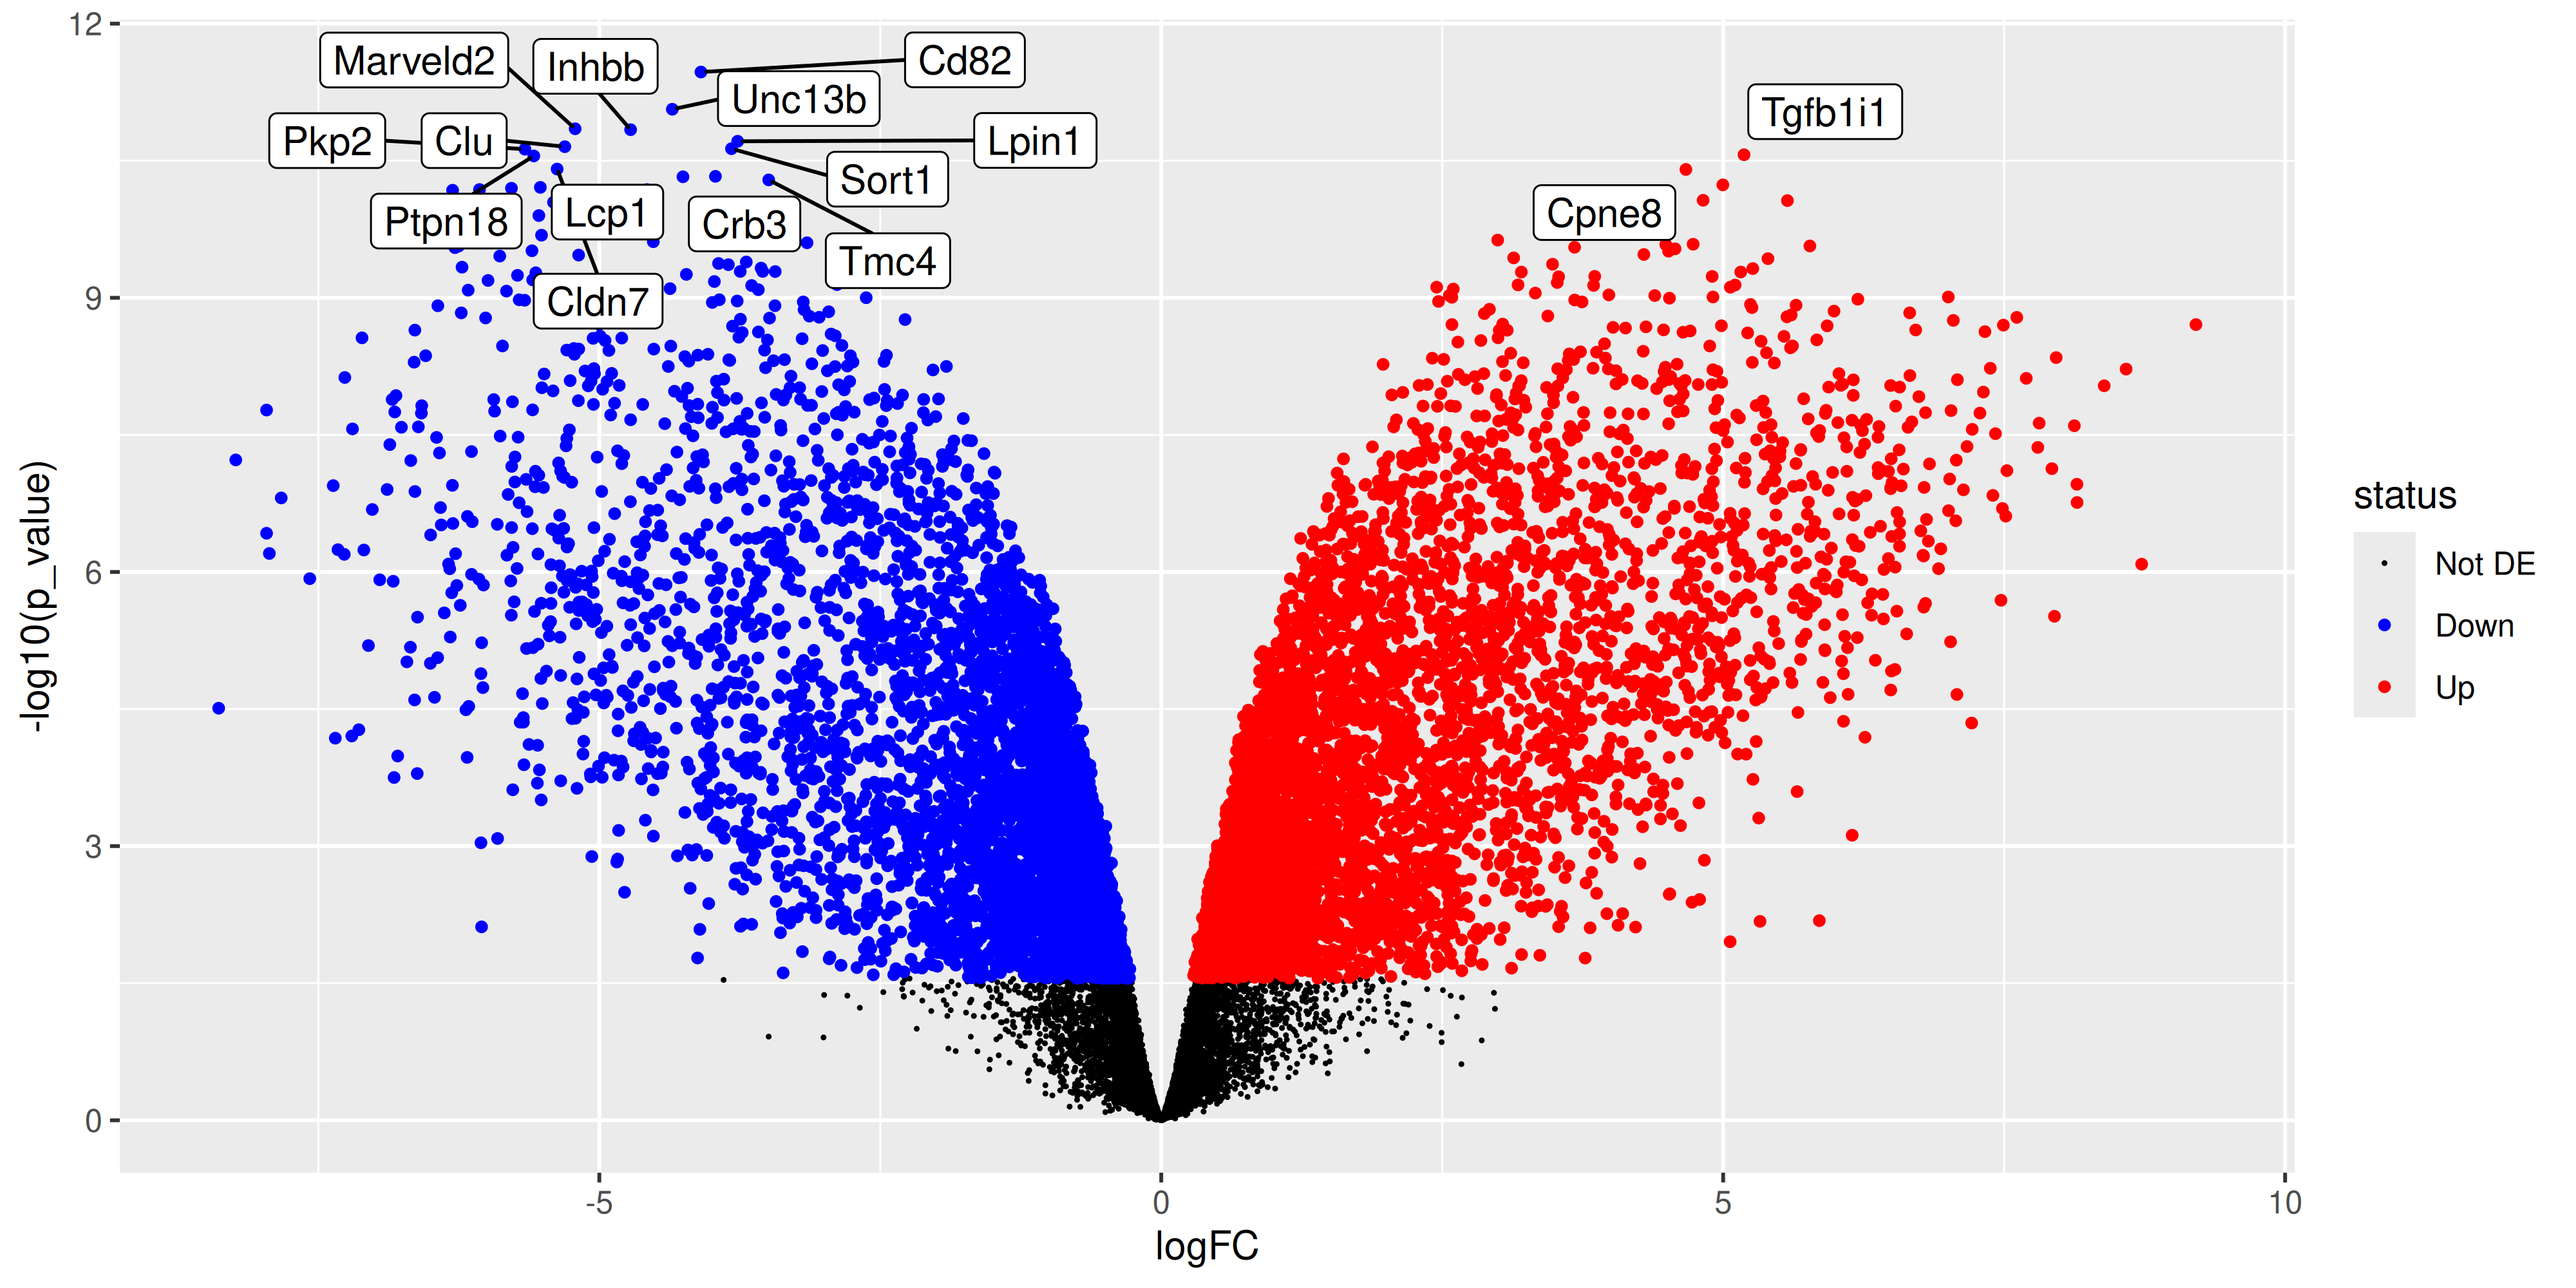
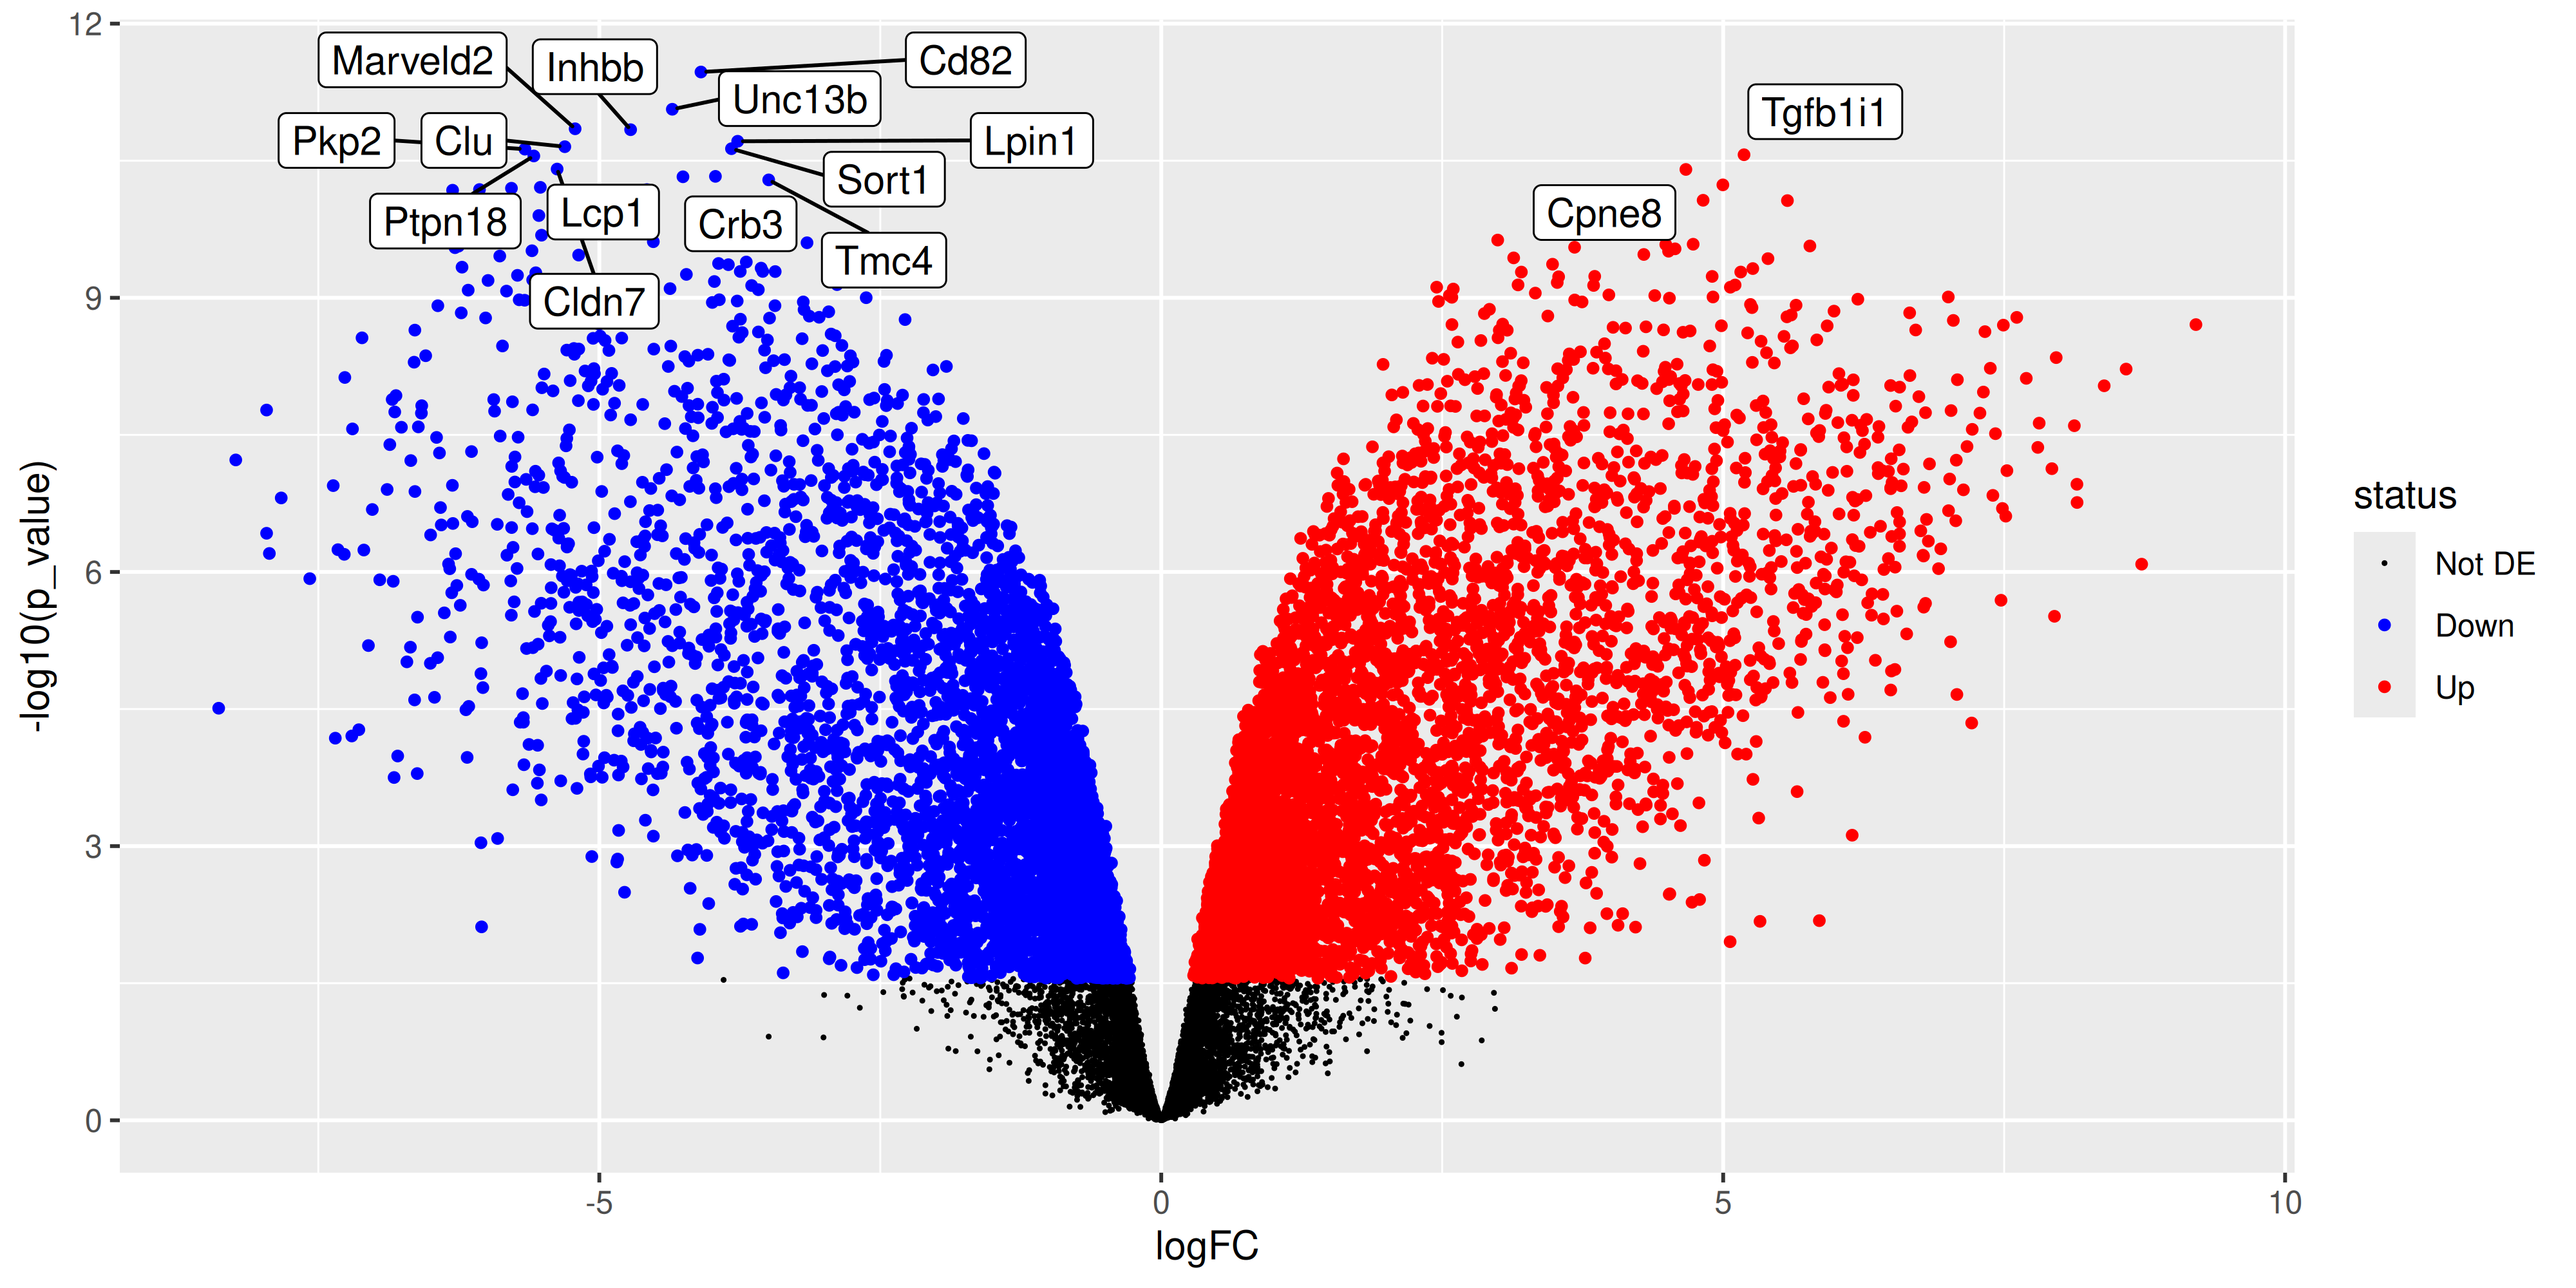
Publish 2026 53cc53efb5b8f5df8829f88ffa03d273bd187bc1

diff --git a/2026/1_content.html b/2026/1_content.html
@@ -359,7 +359,7 @@ window.Quarto = {
 <span id="cb3-14"><a href="#cb3-14" aria-hidden="true" tabindex="-1"></a>)</span></code></pre></div><button title="Copy to Clipboard" class="code-copy-button"><i class="bi"></i></button></div>
 </div>
 <div class="callout callout-style-default callout-note callout-titled" title="A brief detour to factors">
-<div class="callout-header d-flex align-content-center collapsed" data-bs-toggle="collapse" data-bs-target=".callout-2-contents" aria-controls="callout-2" aria-expanded="false" aria-label="Toggle callout">
+<div class="callout-header d-flex align-content-center" data-bs-toggle="collapse" data-bs-target=".callout-2-contents" aria-controls="callout-2" aria-expanded="true" aria-label="Toggle callout">
 <div class="callout-icon-container">
 <i class="callout-icon"></i>
 </div>
@@ -368,7 +368,7 @@ window.Quarto = {
 </div>
 <div class="callout-btn-toggle d-inline-block border-0 py-1 ps-1 pe-0 float-end"><i class="callout-toggle"></i></div>
 </div>
-<div id="callout-2" class="callout-2-contents callout-collapse collapse">
+<div id="callout-2" class="callout-2-contents callout-collapse collapse show">
 <div class="callout-body-container callout-body">
 <p>When we declared the <code>group</code> variable, we used a factor. Factors are a special data type used to encode categorical variables. They have several useful properties compared with regular character vectors:</p>
 <ul>
@@ -480,7 +480,7 @@ FALSE  TRUE
 </ol>
 <p>RNA composition can be accounted for by using more sophisticated normalisation methodologies. We will use ‘trimmed mean of M-values’ (TMM), which estimates relative RNA levels from RNA-seq data<span class="citation" data-cites="robinson2010"><sup><a href="#ref-robinson2010" role="doc-biblioref">3</a></sup></span>. Under the assumption that most genes are not differentially expressed, TMM calculates a library size scaling factor for each library (sample) from the genes that remain after trimming those with the most extreme log-fold-changes and expression levels.</p>
 <div class="callout callout-style-default callout-tip callout-titled" title="Going deeper: how TMM works">
-<div class="callout-header d-flex align-content-center collapsed" data-bs-toggle="collapse" data-bs-target=".callout-4-contents" aria-controls="callout-4" aria-expanded="false" aria-label="Toggle callout">
+<div class="callout-header d-flex align-content-center" data-bs-toggle="collapse" data-bs-target=".callout-4-contents" aria-controls="callout-4" aria-expanded="true" aria-label="Toggle callout">
 <div class="callout-icon-container">
 <i class="callout-icon"></i>
 </div>
@@ -489,7 +489,7 @@ FALSE  TRUE
 </div>
 <div class="callout-btn-toggle d-inline-block border-0 py-1 ps-1 pe-0 float-end"><i class="callout-toggle"></i></div>
 </div>
-<div id="callout-4" class="callout-4-contents callout-collapse collapse">
+<div id="callout-4" class="callout-4-contents callout-collapse collapse show">
 <div class="callout-body-container callout-body">
 <p>TMM calculates the scaling factor for each library using the following steps:</p>
 <ol type="1">
@@ -717,7 +717,7 @@ Levels  BasalvsLP BasalvsML LPvsML
 </div>
 <p><strong>The order of the contrast sets the sign: for <code>Basal - LP</code>, a positive log-fold-change means higher expression in Basal.</strong> Had we written <code>LP - Basal</code>, genes up-regulated in Basal would instead have a negative log-fold-change.</p>
 <div class="callout callout-style-default callout-tip callout-titled" title="Going deeper: why the columns sum to zero">
-<div class="callout-header d-flex align-content-center collapsed" data-bs-toggle="collapse" data-bs-target=".callout-6-contents" aria-controls="callout-6" aria-expanded="false" aria-label="Toggle callout">
+<div class="callout-header d-flex align-content-center" data-bs-toggle="collapse" data-bs-target=".callout-6-contents" aria-controls="callout-6" aria-expanded="true" aria-label="Toggle callout">
 <div class="callout-icon-container">
 <i class="callout-icon"></i>
 </div>
@@ -726,7 +726,7 @@ Levels  BasalvsLP BasalvsML LPvsML
 </div>
 <div class="callout-btn-toggle d-inline-block border-0 py-1 ps-1 pe-0 float-end"><i class="callout-toggle"></i></div>
 </div>
-<div id="callout-6" class="callout-6-contents callout-collapse collapse">
+<div id="callout-6" class="callout-6-contents callout-collapse collapse show">
 <div class="callout-body-container callout-body">
 <p>The numbers in each column of a contrast matrix sum to 0. Each contrast compares groups against each other, so the weights on one side balance those on the other.</p>
 </div>
@@ -797,7 +797,7 @@ Levels  BasalvsLP BasalvsML LPvsML
 <h2 data-number="2.11" class="anchored" data-anchor-id="statistical-testing"><span class="header-section-number">2.11</span> Statistical testing</h2>
 <p>To actually test if the values are significantly different from 0, we use the <code>eBayes()</code> function to compute a moderated t-statistic for each gene, given a fitted linear model. ‘Moderated’ refers to empirical Bayes moderation, which borrows information across genes to obtain more accurate measures of variability for each gene. This also increases our power to detect differentially expressed genes.</p>
 <div class="callout callout-style-default callout-tip callout-titled" title="Going deeper: other statistics from eBayes()">
-<div class="callout-header d-flex align-content-center collapsed" data-bs-toggle="collapse" data-bs-target=".callout-7-contents" aria-controls="callout-7" aria-expanded="false" aria-label="Toggle callout">
+<div class="callout-header d-flex align-content-center" data-bs-toggle="collapse" data-bs-target=".callout-7-contents" aria-controls="callout-7" aria-expanded="true" aria-label="Toggle callout">
 <div class="callout-icon-container">
 <i class="callout-icon"></i>
 </div>
@@ -806,7 +806,7 @@ Levels  BasalvsLP BasalvsML LPvsML
 </div>
 <div class="callout-btn-toggle d-inline-block border-0 py-1 ps-1 pe-0 float-end"><i class="callout-toggle"></i></div>
 </div>
-<div id="callout-7" class="callout-7-contents callout-collapse collapse">
+<div id="callout-7" class="callout-7-contents callout-collapse collapse show">
 <div class="callout-body-container callout-body">
 <p>As well as moderated t-statistics, <code>eBayes()</code> computes moderated F-statistics, which test all contrasts at once, and the log-odds of differential expression for each gene. The log-odds appears as the <code>B</code> column in the output of <code>topTable()</code>.</p>
 </div>
@@ -1019,7 +1019,7 @@ Up          4817      4778   2102</code></pre>
 <pre><code>An object of class MDS
 $eigen.values
 [1]  6.844419e+01  1.154413e+01  3.790044e+00  2.994025e+00  2.021565e+00
-[6]  1.613173e+00  1.202805e+00  1.094072e+00 -3.038972e-15
+[6]  1.613173e+00  1.202805e+00  1.094072e+00 -2.379073e-16
 
 $eigen.vectors
             [,1]        [,2]        [,3]         [,4]        [,5]        [,6]
@@ -1867,7 +1867,7 @@ $y
 <span id="cb61-94"><a href="#cb61-94" aria-hidden="true" tabindex="-1"></a>)</span>
 <span id="cb61-95"><a href="#cb61-95" aria-hidden="true" tabindex="-1"></a><span class="in">```</span></span>
 <span id="cb61-96"><a href="#cb61-96" aria-hidden="true" tabindex="-1"></a></span>
-<span id="cb61-97"><a href="#cb61-97" aria-hidden="true" tabindex="-1"></a>::: {.callout-note collapse="true" title="A brief detour to factors"}</span>
+<span id="cb61-97"><a href="#cb61-97" aria-hidden="true" tabindex="-1"></a>::: {.callout-note collapse="false" title="A brief detour to factors"}</span>
 <span id="cb61-98"><a href="#cb61-98" aria-hidden="true" tabindex="-1"></a>When we declared the <span class="in">`group`</span> variable, we used a factor. Factors are a special data type used to encode categorical variables. They have several useful properties compared with regular character vectors:</span>
 <span id="cb61-99"><a href="#cb61-99" aria-hidden="true" tabindex="-1"></a></span>
 <span id="cb61-100"><a href="#cb61-100" aria-hidden="true" tabindex="-1"></a><span class="ss">- </span>They allow you to specify the order of the levels.</span>
@@ -1961,7 +1961,7 @@ $y
 <span id="cb61-192"><a href="#cb61-192" aria-hidden="true" tabindex="-1"></a></span>
 <span id="cb61-193"><a href="#cb61-193" aria-hidden="true" tabindex="-1"></a>RNA composition can be accounted for by using more sophisticated normalisation methodologies. We will use 'trimmed mean of M-values' (TMM), which estimates relative RNA levels from RNA-seq data <span class="co">[</span><span class="ot">@robinson2010</span><span class="co">]</span>. Under the assumption that most genes are not differentially expressed, TMM calculates a library size scaling factor for each library (sample) from the genes that remain after trimming those with the most extreme log-fold-changes and expression levels.</span>
 <span id="cb61-194"><a href="#cb61-194" aria-hidden="true" tabindex="-1"></a></span>
-<span id="cb61-195"><a href="#cb61-195" aria-hidden="true" tabindex="-1"></a>::: {.callout-tip collapse="true" title="Going deeper: how TMM works"}</span>
+<span id="cb61-195"><a href="#cb61-195" aria-hidden="true" tabindex="-1"></a>::: {.callout-tip collapse="false" title="Going deeper: how TMM works"}</span>
 <span id="cb61-196"><a href="#cb61-196" aria-hidden="true" tabindex="-1"></a>TMM calculates the scaling factor for each library using the following steps:</span>
 <span id="cb61-197"><a href="#cb61-197" aria-hidden="true" tabindex="-1"></a></span>
 <span id="cb61-198"><a href="#cb61-198" aria-hidden="true" tabindex="-1"></a><span class="ss">1.  </span>calculate the gene expression log-fold-changes and absolute expression values for pairwise samples (selecting one sample from the experiment as a reference)</span>
@@ -2133,7 +2133,7 @@ $y
 <span id="cb61-382"><a href="#cb61-382" aria-hidden="true" tabindex="-1"></a></span>
 <span id="cb61-383"><a href="#cb61-383" aria-hidden="true" tabindex="-1"></a>**The order of the contrast sets the sign: for `Basal - LP`, a positive log-fold-change means higher expression in Basal.** Had we written <span class="in">`LP - Basal`</span>, genes up-regulated in Basal would instead have a negative log-fold-change.</span>
 <span id="cb61-384"><a href="#cb61-384" aria-hidden="true" tabindex="-1"></a></span>
-<span id="cb61-385"><a href="#cb61-385" aria-hidden="true" tabindex="-1"></a>::: {.callout-tip collapse="true" title="Going deeper: why the columns sum to zero"}</span>
+<span id="cb61-385"><a href="#cb61-385" aria-hidden="true" tabindex="-1"></a>::: {.callout-tip collapse="false" title="Going deeper: why the columns sum to zero"}</span>
 <span id="cb61-386"><a href="#cb61-386" aria-hidden="true" tabindex="-1"></a>The numbers in each column of a contrast matrix sum to 0. Each contrast compares groups against each other, so the weights on one side balance those on the other.</span>
 <span id="cb61-387"><a href="#cb61-387" aria-hidden="true" tabindex="-1"></a>:::</span>
 <span id="cb61-388"><a href="#cb61-388" aria-hidden="true" tabindex="-1"></a></span>
@@ -2183,7 +2183,7 @@ $y
 <span id="cb61-438"><a href="#cb61-438" aria-hidden="true" tabindex="-1"></a></span>
 <span id="cb61-439"><a href="#cb61-439" aria-hidden="true" tabindex="-1"></a>To actually test if the values are significantly different from 0, we use the <span class="in">`eBayes()`</span> function to compute a moderated t-statistic for each gene, given a fitted linear model. 'Moderated' refers to empirical Bayes moderation, which borrows information across genes to obtain more accurate measures of variability for each gene. This also increases our power to detect differentially expressed genes.</span>
 <span id="cb61-440"><a href="#cb61-440" aria-hidden="true" tabindex="-1"></a></span>
-<span id="cb61-441"><a href="#cb61-441" aria-hidden="true" tabindex="-1"></a>::: {.callout-tip collapse="true" title="Going deeper: other statistics from eBayes()"}</span>
+<span id="cb61-441"><a href="#cb61-441" aria-hidden="true" tabindex="-1"></a>::: {.callout-tip collapse="false" title="Going deeper: other statistics from eBayes()"}</span>
 <span id="cb61-442"><a href="#cb61-442" aria-hidden="true" tabindex="-1"></a>As well as moderated t-statistics, <span class="in">`eBayes()`</span> computes moderated F-statistics, which test all contrasts at once, and the log-odds of differential expression for each gene. The log-odds appears as the <span class="in">`B`</span> column in the output of <span class="in">`topTable()`</span>.</span>
 <span id="cb61-443"><a href="#cb61-443" aria-hidden="true" tabindex="-1"></a>:::</span>
 <span id="cb61-444"><a href="#cb61-444" aria-hidden="true" tabindex="-1"></a></span>
